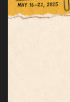
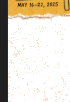
Switch paperclip to keyed-out transparent PNG

diff --git a/app/preview-home2/page.tsx b/app/preview-home2/page.tsx
@@ -83,7 +83,7 @@ export default async function PreviewHome2() {
             {/* Paperclip overlay — rotated 45° */}
             {/* eslint-disable-next-line @next/next/no-img-element */}
             <img
-              src="/paperclip.jpeg"
+              src="/paperclip.png"
               alt=""
               aria-hidden
               style={{
